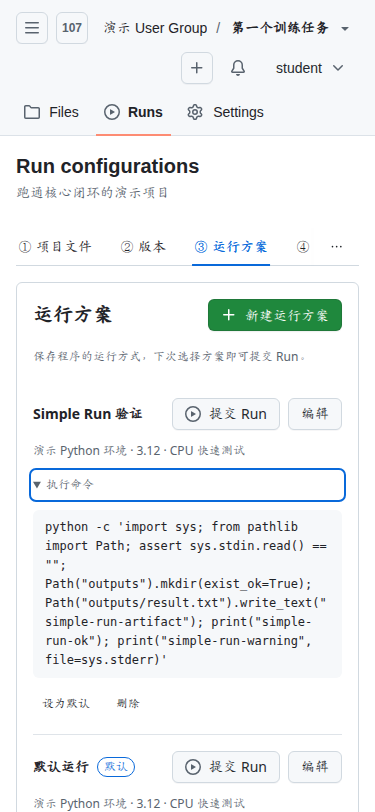
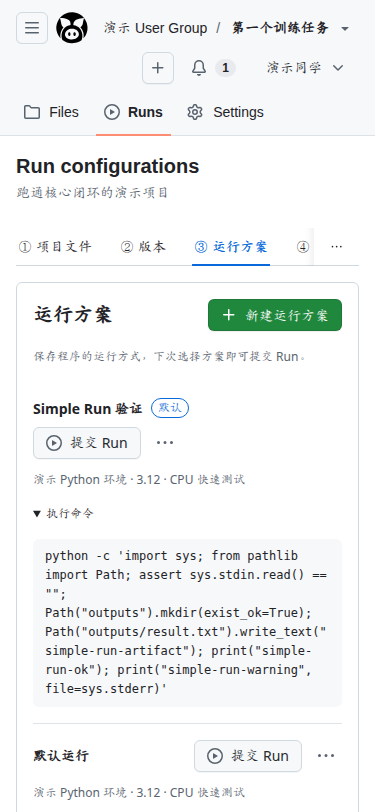
docs(run-config): refresh final UI and validation evidence

diff --git a/docs/evidence/issue-81/README.md b/docs/evidence/issue-81/README.md
@@ -12,6 +12,6 @@
 
 Slurm 的 batch I/O 证据来自 `backend/tests/integration/scheduler/test_slurm_batch_io.py` 的 HTTP transport 测试及生成脚本；未连接真实 Slurm，不声明完成 #7 的真实环境验收。
 
-完整 `make check` 通过：后端 384 passed、3 skipped；前端 243 passed；生产构建与生成契约检查通过。
+合入 main（`d28f934`）后完整 `make check` 通过：后端 393 passed、3 skipped；前端 272 passed；代理测试 13 passed、1 skipped；生产构建与生成契约检查通过。
 
-交互评审后的 `revised-*` 截图记录名称与说明常显、小标题字号、带边框的删除按钮、默认折叠的资源区及命令换行、集中操作菜单。截图使用本地演示数据；页面外壳为合入最新 main 前的版本。
+交互评审后的 `revised-*` 截图记录名称与说明常显、小标题字号、带边框的删除按钮、默认折叠的资源区及命令换行、集中操作菜单。截图使用本地演示数据，已在合入最新 main 后重新验证和截图。
